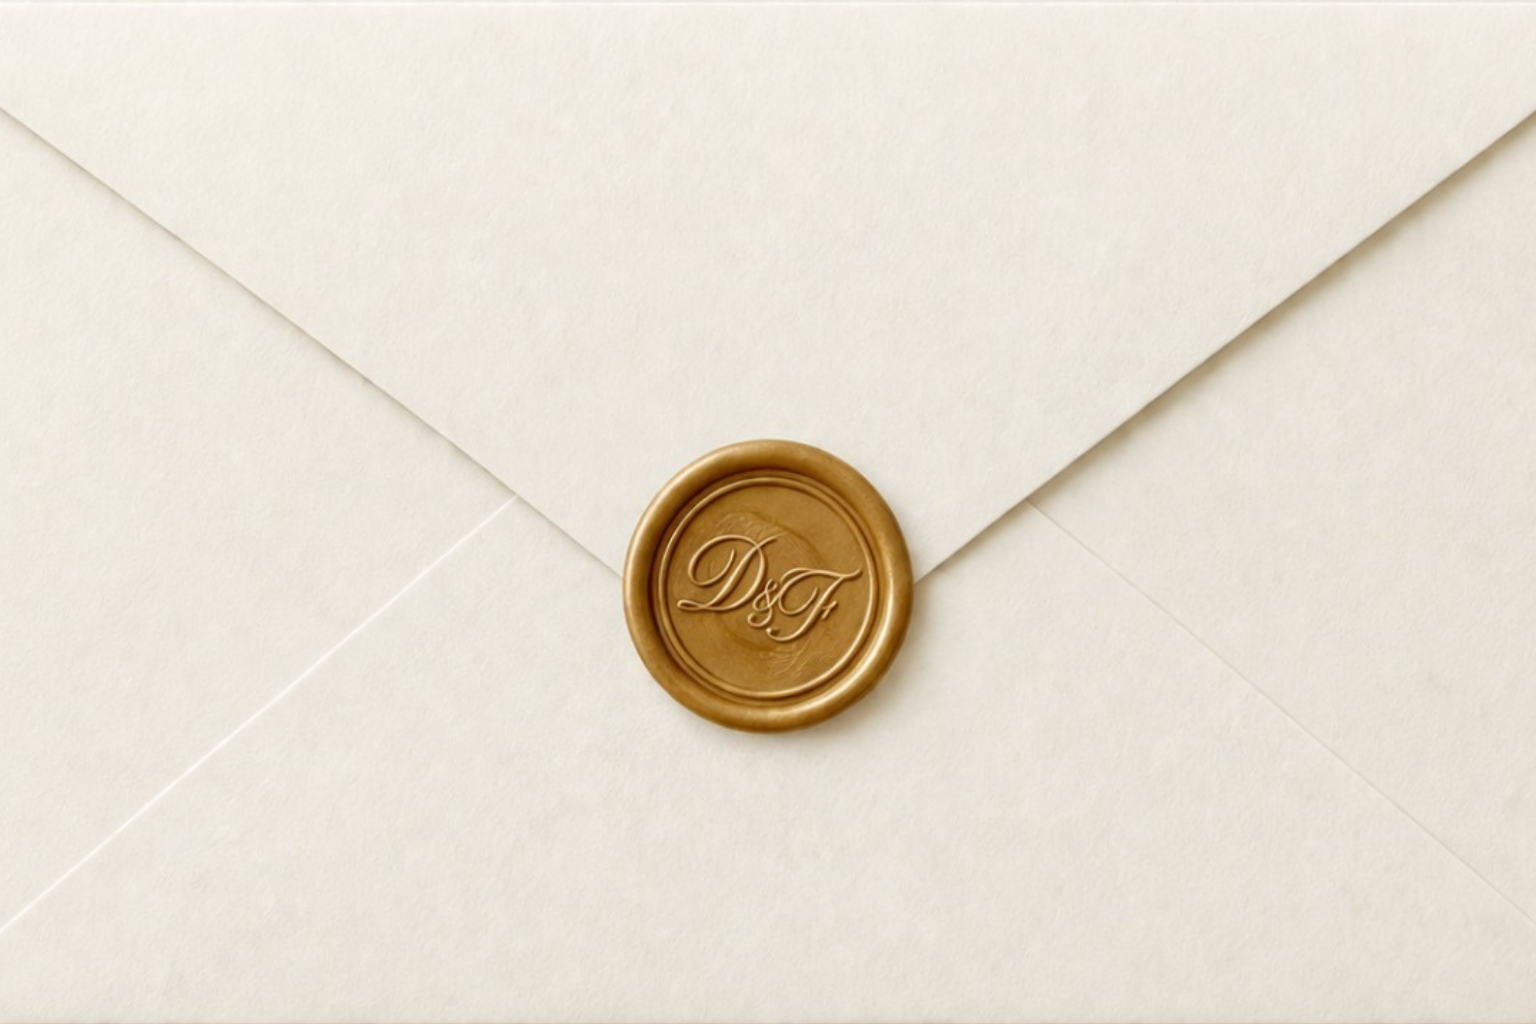
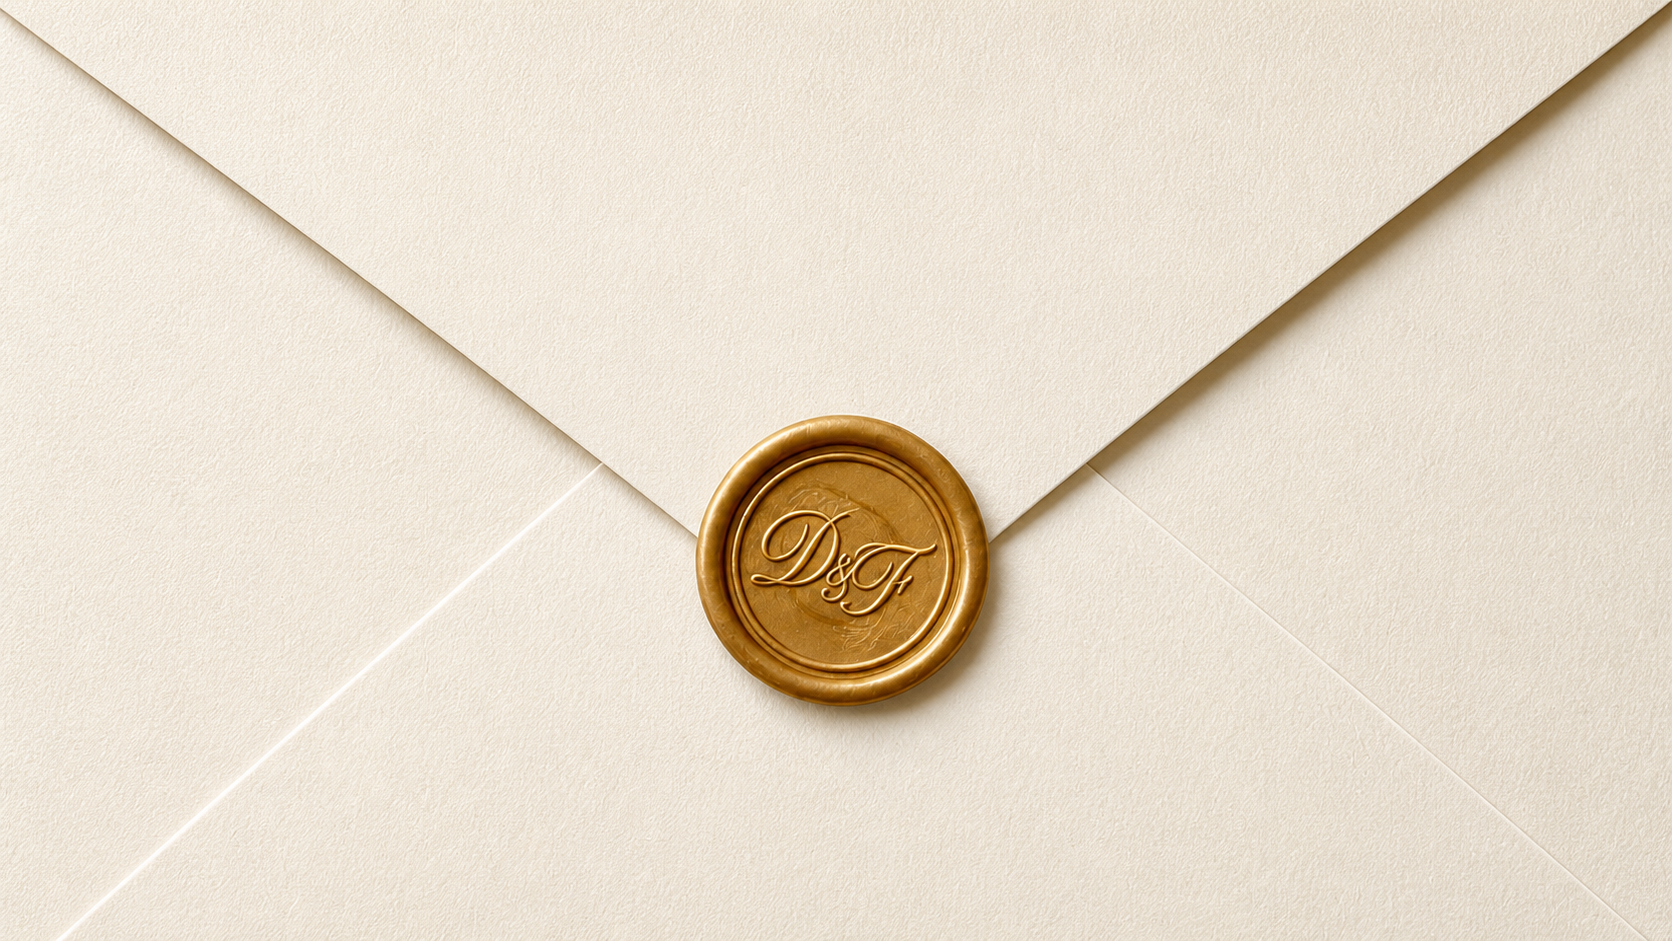
new version

diff --git a/src/WeddingWebsiteV3.jsx b/src/WeddingWebsiteV3.jsx
@@ -8,7 +8,7 @@ import FestaImg from "./assets/icons/festa.png";
 import BuffetImg from "./assets/icons/buffet.png";
 import CerimoniaImg from "./assets/icons/cerimonia.png";
 import BoloImg from "./assets/icons/bolo.png";
-import IgrejaImg from "./assets/igreja.png";
+import IgrejaImg from "./assets/icons/igreja.png";
 
 import { useParams } from "react-router-dom";
 import { supabase } from "./lib/supabase";
@@ -129,6 +129,22 @@ const customStyles = `
   opacity: 1;
   transform: translateY(0);
 }
+
+.fullscreen-envelope {
+  position: fixed;
+  top: 0;
+  left: 0;
+  width: 100vw;
+  height: 100vh;
+
+  background-image: url("/envelope-desktop.png");
+  background-size: cover;       /* cobre todo o ecrã */
+  background-position: center;  /* mantém centrado */
+  background-repeat: no-repeat;
+
+  image-rendering: auto;
+}
+
 
 .page-bg {
   background:
@@ -692,7 +708,7 @@ export default function WeddingWebsiteV3() {
               <Timeline
                 time="11:00"
                 title="Chegada"
-                image={CerimoniaImg}
+                image={IgrejaImg}
                 text="Receção dos convidados junto à Igreja."
               />
               <Timeline
@@ -715,7 +731,7 @@ export default function WeddingWebsiteV3() {
               />
               <Timeline
                 time="20:30"
-                title="Corte do bolo"
+                title="Bolo dos noivos"
                 image={BoloImg}
                 text="Um momento doce para celebrar juntos.."
               />
@@ -1143,25 +1159,26 @@ function CountdownBox({ number, label }) {
 
 function Timeline({ time, image, title, text }) {
   return (
-    <div className="reveal-on-scroll mx-auto grid max-w-4xl gap-6 border-t border-[#b7c4b0]/25 pt-10 md:grid-cols-[120px_1fr]">
-      <p className="flex items-center gap-3 text-xl font-extrabold tracking-[-0.04em] text-[#b7c4b0]">
-        <span className="gold-dot h-2 w-2 rounded-full" />
-        {time}
-      </p>
+    <div className="reveal-on-scroll mx-auto grid max-w-4xl gap-6 border-t border-[#b7c4b0]/25 pt-10 md:grid-cols-[140px_1fr]">
+      {/* Tempo + imagem */}
+      <div className="flex items-center gap-4">
+        <img
+          src={image}
+          alt=""
+          aria-hidden="true"
+          className="h-6 w-6 object-contain opacity-80"
+        />
 
+        <p className="text-xl font-extrabold tracking-[-0.04em] text-[#b7c4b0]">
+          {time}
+        </p>
+      </div>
+
+      {/* Conteúdo */}
       <div>
-        <div className="flex items-center gap-4">
-          <img
-            src={image}
-            alt=""
-            aria-hidden="true"
-            className="h-8 w-8 object-contain opacity-80"
-          />
-
-          <span className="text-xl font-semibold uppercase tracking-[0.5em] text-[#cdb892]">
-            {title}
-          </span>
-        </div>
+        <span className="text-xl font-semibold uppercase tracking-[0.5em] text-[#cdb892]">
+          {title}
+        </span>
 
         <p className="mt-4 max-w-2xl text-lg font-light leading-8 text-[#8f9f8a]">
           {text}
